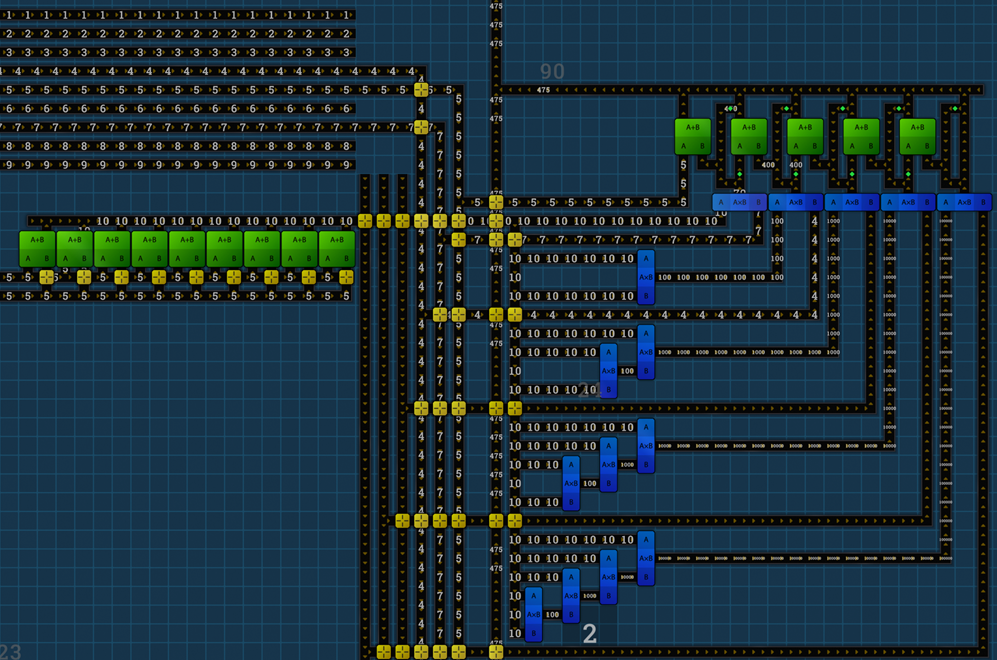
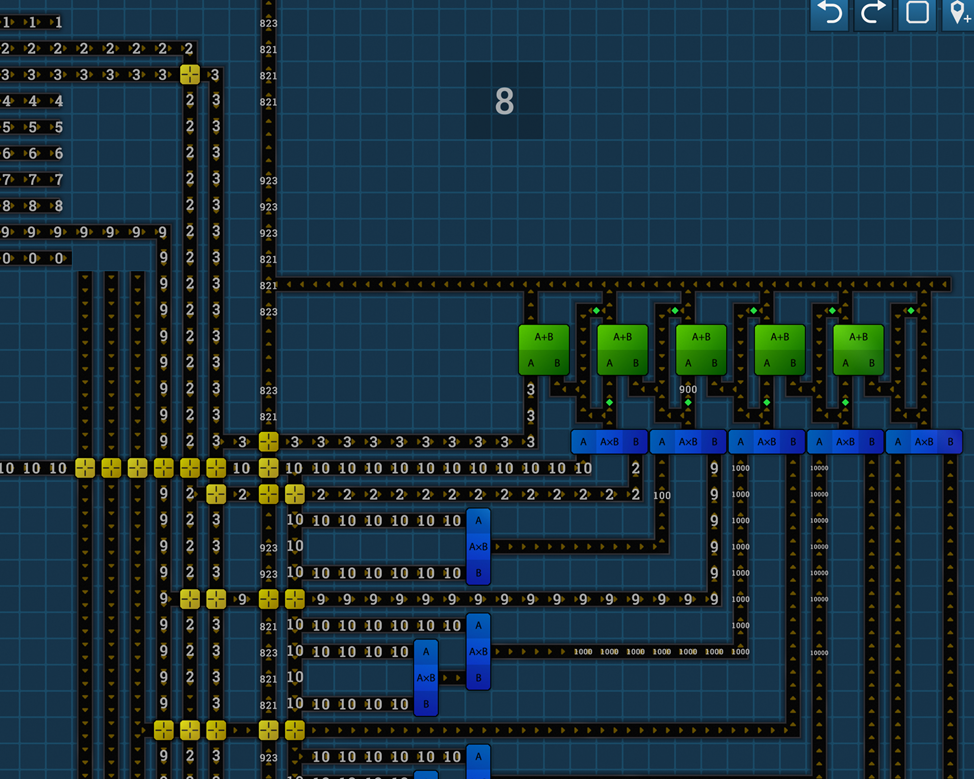
Give the picker the "0"

diff --git a/games/beltmatic/README.md b/games/beltmatic/README.md
@@ -5,3 +5,5 @@ In Beltmatic you have basic numbers (starting with only 1, later 1-9 and so) and
 I didn't wanted to calculate each new number, so I just build me one "picker". So I can just choose the single digits of a large number. For faster delivery the blueprint needs to be copied to the bottom and collect more 10's.
 
 ![](picker.png)
+
+Only downside of that: The game become pretty boring after having that "picker" and I stopped playing it. No new things needed to be done in the first hours after having this setup. Shapez 2 e.g. provide much more longtime fun by providing every milestones new possibilites and gameplay loops.
